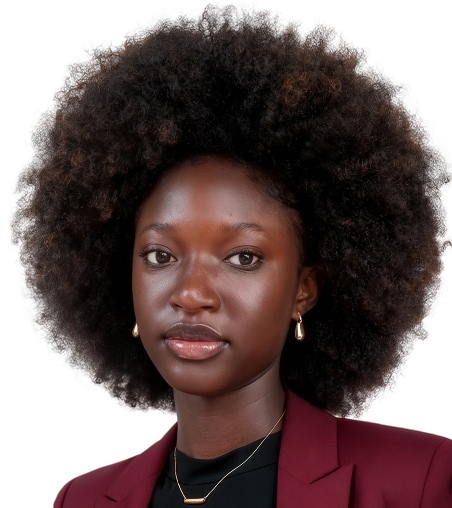
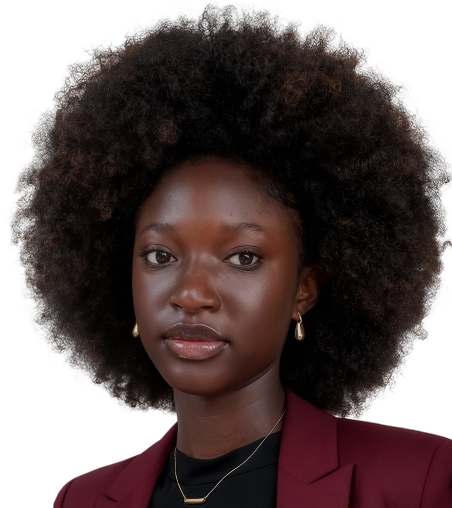
updated cv and pic

diff --git a/src/App.css b/src/App.css
@@ -125,7 +125,7 @@ span.waving-hand {
 .profile-pic {
   display: flex;
   justify-content: center;
-  background-color:#9A2645;
+  background-color:#801B36;
   border-radius:40% 60% 46% 54% / 60% 57% 43% 40%;
   position: relative;
   height:510px;
@@ -134,8 +134,8 @@ span.waving-hand {
 
 .profile-pic img {
   position: absolute;
-  bottom:-30px;
-  width:380px;
+  bottom:-120px;
+  width:350px;
   transform: scale(1);
   transition: transform 0.5s ease-in-out;
 }
@@ -503,8 +503,8 @@ p.special-text a:hover{
 }
 
 .profile-pic img{
-  bottom:-10px;
-  width:250px;
+  bottom:-120px;
+  width:260px;
 }
 
 .intro h1{
@@ -695,12 +695,12 @@ p.special-text a:hover{
   height:400px;
   width:80%;
   margin: auto;
-  margin-bottom:5px;
+  margin-bottom:10px;
 }
 
 .profile-pic img{
-  bottom:-10px;
-  width:270px;
+  bottom:-80px;
+  width:250px;
 }
 
 .intro h1{
@@ -849,12 +849,12 @@ p.special-text a:hover{
   height:400px;
   width:90%;
   margin: auto;
-  margin-bottom:20px;
+  margin-bottom:25px;
 }
 
 .profile-pic img{
-  bottom:-10px;
-  width:280px;
+  bottom:-90px;
+  width:260px;
 }
 
 .intro h1{
@@ -1024,13 +1024,13 @@ p.special-text a:hover{
 
 .profile-pic {
   height:300px;
-  margin-bottom:20px;
+  margin-bottom:40px;
 }
 
 .profile-pic img{
   position: absolute;
-  bottom:-10px;
-  width:200px;
+  bottom:-100px;
+  width:220px;
 }
 
 .intro h1{

diff --git a/src/pages/Home.jsx b/src/pages/Home.jsx
@@ -1,7 +1,6 @@
 import { Link } from "react-router-dom";
 import Layout from "../components/Layout";
 import Contact from "../components/Contact";
-// import myPicture from '../assets/images/my_pic.png'
 import myPicture from '../assets/images/my_pic2.png'
 import { FontAwesomeIcon } from "@fortawesome/react-fontawesome";
 import { faLinkedin, faGithub, faWhatsapp } from "@fortawesome/free-brands-svg-icons";
@@ -25,7 +24,7 @@ function  Home(){
                     </div>
                     <div className="flex gap-x-5 md:gap-y-o gap-y-4 md:flex-row flex-col mt-[20px]">
                         <Link to="/projects" className="hero-buttons-links view-my-works"> View My Works <FontAwesomeIcon icon={faArrowRight} /></Link>
-                        <Link to="https://drive.google.com/file/d/18fFHDe8v_CE-QZMEy88q9sYRtfvWJ8ca/view?usp=sharing" target="_blank" rel="noopener noreferrer" className="hero-buttons-links download-cv-btn"> Download CV <FontAwesomeIcon icon={faDownload} /></Link>
+                        <Link to="https://drive.google.com/file/d/1ufnUPhYLKpSoq1YHA3S4W0HemdbGwD26/view?usp=sharing" target="_blank" rel="noopener noreferrer" className="hero-buttons-links download-cv-btn"> Download CV <FontAwesomeIcon icon={faDownload} /></Link>
                     </div>
                 </div>
 

diff --git a/src/components/Navbar.jsx b/src/components/Navbar.jsx
@@ -86,7 +86,7 @@ function Navbar(){
                 </li>
 
                 <li>
-                    <a href="https://drive.google.com/uc?export=download&id=18fFHDe8v_CE-QZMEy88q9sYRtfvWJ8ca" target='_blank' rel="noopener noreferrer" className='download-resume'>
+                    <a href="https://drive.google.com/uc?export=download&id=1ufnUPhYLKpSoq1YHA3S4W0HemdbGwD26" target='_blank' rel="noopener noreferrer" className='download-resume'>
                         Bio & Resume 
                         <img src={dowloadIcon} alt="download-my-resume-icon" className='inline w-[18px] h-[18px]'/>
                     </a>

diff --git a/src/pages/Skill.jsx b/src/pages/Skill.jsx
@@ -141,6 +141,10 @@ function  Skill(){
                     <p>GitHub</p>
                 </div>
                 <div className="w-1/3 sm:w-1/4 lg:w-1/6 mb-3 text-center">
+                    <i className="devicon-docker-plain text-4xl"></i>
+                    <p>Docker</p>
+                </div>
+                <div className="w-1/3 sm:w-1/4 lg:w-1/6 mb-3 text-center">
                     <i className="devicon-vscode-plain text-4xl"></i>
                     <p>VS Code</p>
                 </div>
